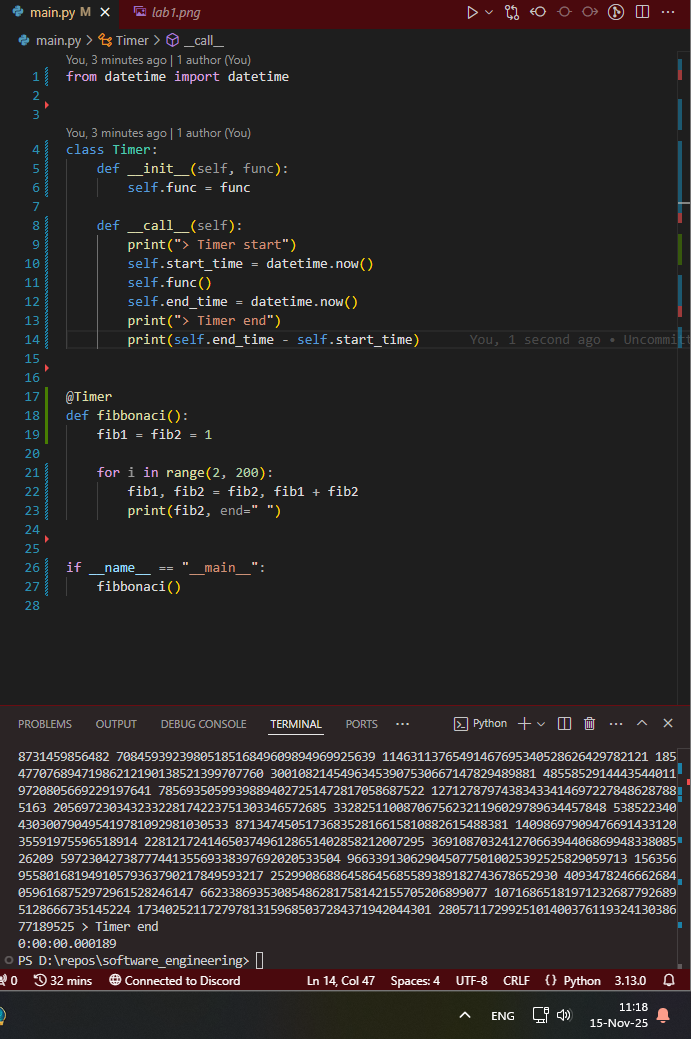
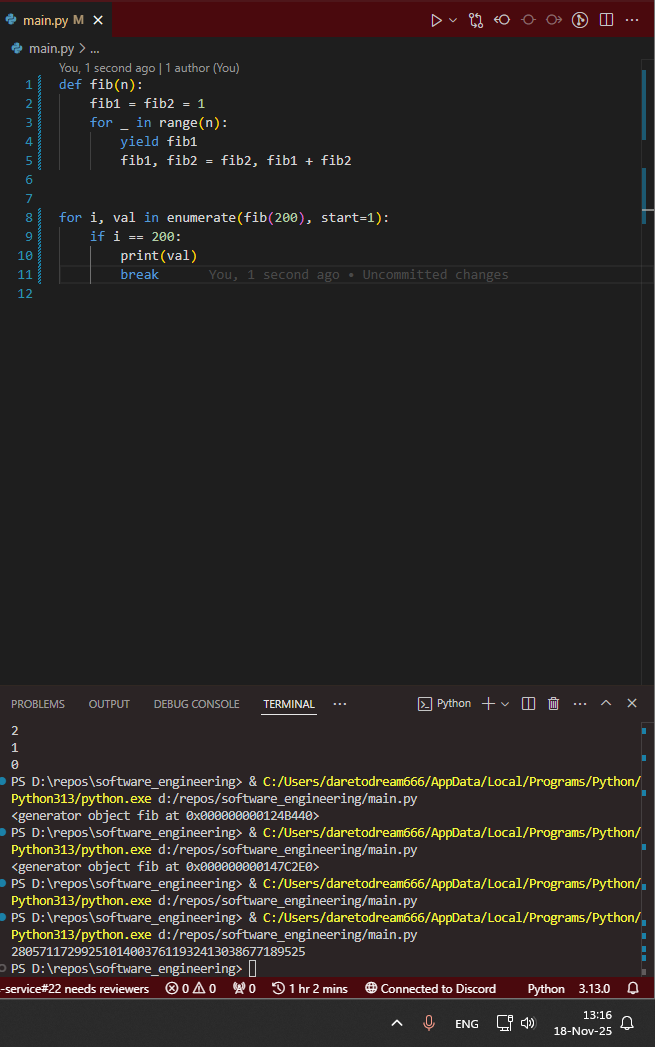
initial tema11

diff --git a/main.py b/main.py
@@ -1,31 +1,13 @@
-from datetime import datetime, time
+def fib(n):
+    fib1 = fib2 = 1
+    with open("fib.txt", "w") as file:
+        for _ in range(n):
+            file.write(str(fib1) + "\n")
+            yield fib1
+            fib1, fib2 = fib2, fib1 + fib2
 
 
-class ShabbatShalomException(Exception):
-    pass
-
-
-def drive_car():
-    try:
-        today = datetime.now().weekday()
-        if today == 5:
-            raise ShabbatShalomException
-        else:
-            return "vroom vroom"
-    except ShabbatShalomException:
-        return "Oy vey! You cant do that on Shabbat"
-
-
-def cook_lunch():
-    try:
-        today = datetime.now().weekday()
-        if today == 5:
-            raise ShabbatShalomException
-        else:
-            return "yay u made delicious shakshuka"
-    except ShabbatShalomException:
-        return "Oy vey! You cant do that on Shabbat"
-
-
-print(cook_lunch())
-print(drive_car())
+for i, val in enumerate(fib(200), start=1):
+    if i == 200:
+        print(val)
+        break
